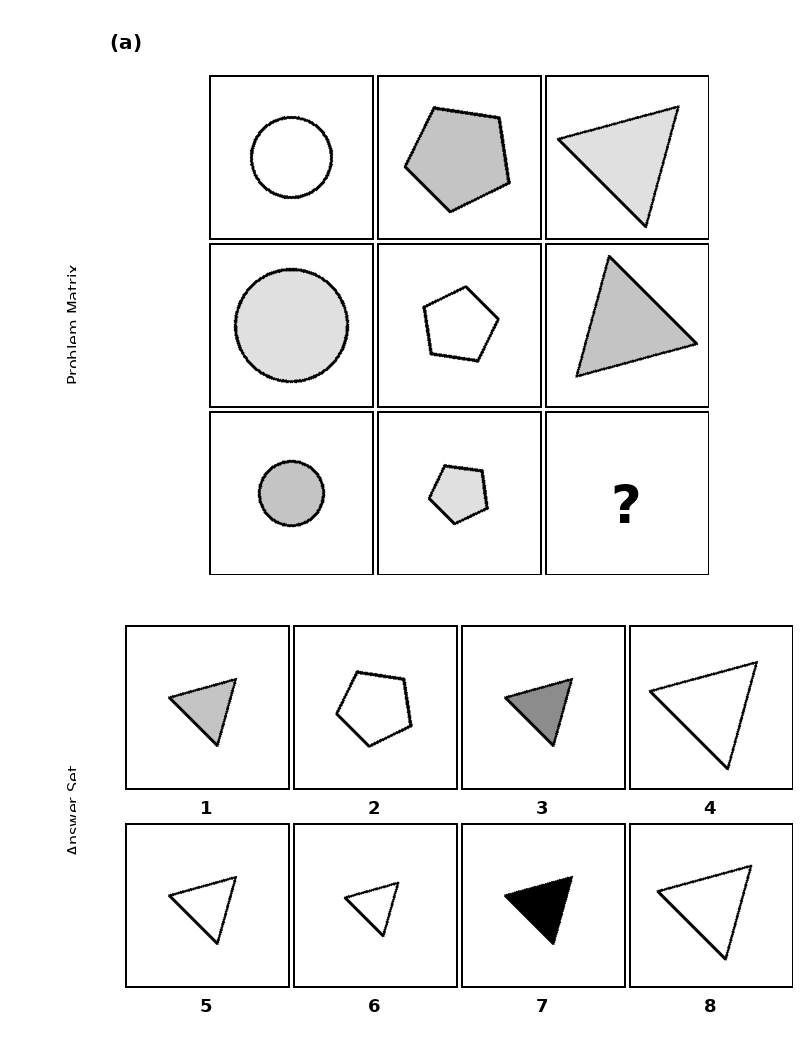
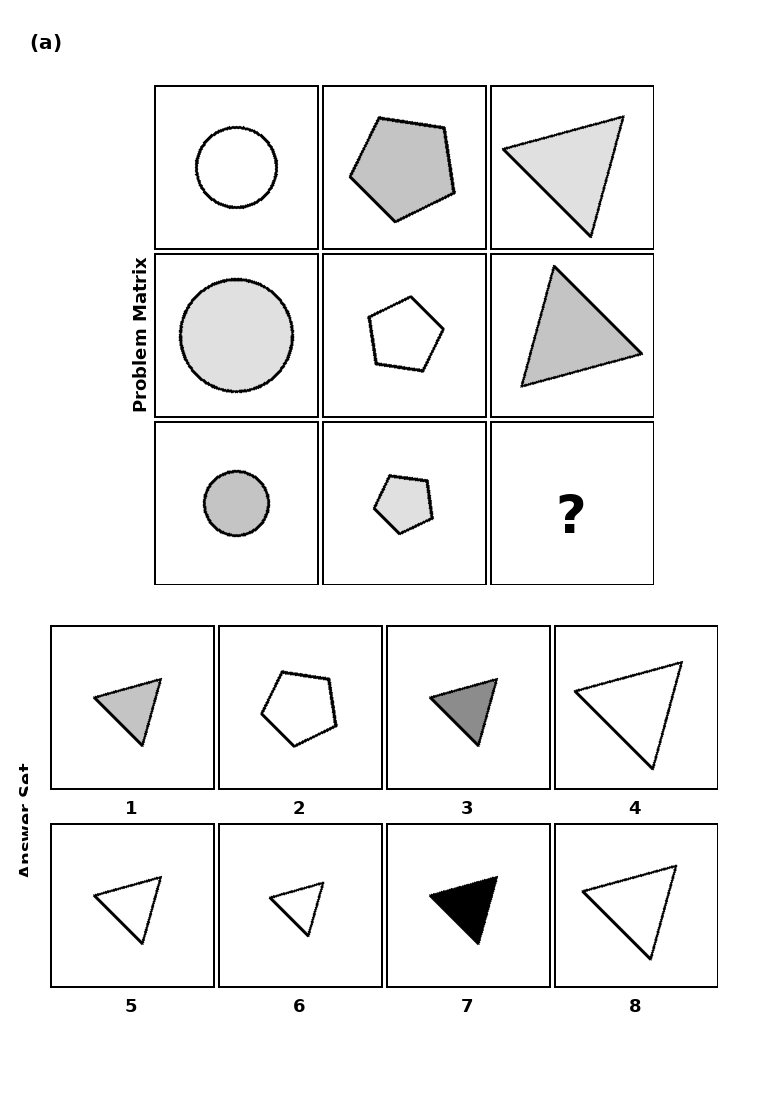
pm visible

diff --git a/preprocessing/load_raven.py b/preprocessing/load_raven.py
@@ -137,7 +137,10 @@ class RAVENRunner:
         cell_width = panel_width + 2 * border_width
         cell_height = panel_height + 2 * border_width
         
-        composite_width = cell_width * 3 + spacing * 2
+        # Add margin for the "Problem Matrix" text on the left side
+        left_margin = 40  # Margin for the vertical text
+        
+        composite_width = cell_width * 3 + spacing * 2 + left_margin
         composite_height = cell_height * 3 + spacing * 2
         
         # Create composite image with white background
@@ -160,8 +163,8 @@ class RAVENRunner:
         ]
         
         for i, (col, row) in enumerate(positions):
-            # Calculate position with spacing
-            x = col * (cell_width + spacing)
+            # Calculate position with spacing, accounting for left margin
+            x = left_margin + col * (cell_width + spacing)
             y = row * (cell_height + spacing)
             
             # Draw border rectangle
@@ -175,7 +178,7 @@ class RAVENRunner:
         
         # Add question mark for missing panel
         missing_col, missing_row = 2, 2
-        missing_x = missing_col * (cell_width + spacing)
+        missing_x = left_margin + missing_col * (cell_width + spacing)
         missing_y = missing_row * (cell_height + spacing)
         
         # Draw border for missing panel
@@ -204,6 +207,37 @@ class RAVENRunner:
         text_y = missing_y + (cell_height - text_height) // 2
         
         draw.text((text_x, text_y), question_text, fill='black', font=font)
+        
+        # Add "Problem Matrix" text on the left side
+        try:
+            label_font = ImageFont.truetype("/usr/share/fonts/truetype/dejavu/DejaVuSans-Bold.ttf", 18)
+        except:
+            try:
+                label_font = ImageFont.load_default()
+            except:
+                label_font = None
+        
+        if label_font:
+            problem_matrix_text = "Problem Matrix"
+            text_width, text_height = draw.textbbox((0, 0), problem_matrix_text, font=label_font)[2:4]
+            
+            # Calculate the position for the vertical text
+            # Center it vertically in the matrix area
+            matrix_height = 3 * cell_height + 2 * spacing
+            text_x = 15  # Fixed distance from the left edge
+            text_y = (composite_height - text_width) // 2  # Center vertically
+            
+            # Draw the rotated text
+            # We need to create a temporary image, draw text, then rotate and paste
+            text_img = Image.new('RGBA', (text_width, text_height), (255, 255, 255, 0))
+            text_draw = ImageDraw.Draw(text_img)
+            text_draw.text((0, 0), problem_matrix_text, fill='black', font=label_font)
+            
+            # Rotate the text image 90 degrees counter-clockwise
+            rotated_text = text_img.rotate(90, expand=True)
+            
+            # Paste the rotated text onto the composite image
+            composite.paste(rotated_text, (text_x, text_y), rotated_text)
         
         return composite
 
@@ -306,25 +340,27 @@ class RAVENRunner:
         
         # Layout parameters
         margin = 30  # Margin around the entire image
-        left_label_width = 80  # Extra space for vertical labels on the left
         section_spacing = 40  # Space between Problem Matrix and Answer Set
-        label_height = 35  # Height for section labels
-        label_margin = 10  # Space between label and content
+        label_height = 40  # Height for section labels (increased)
+        label_margin = 15  # Space between label and content (increased)
+        
+        # Add margin for the left side labels
+        left_margin = 40  # Margin for the vertical text
         
         # Calculate total dimensions
-        combined_width = max(matrix_width, choices_width) + 2 * margin + left_label_width
+        combined_width = max(matrix_width, choices_width) + 2 * margin + left_margin
         combined_height = (margin + label_height + label_margin + matrix_height + 
-                          section_spacing + label_margin + 
+                          section_spacing + label_height + label_margin + 
                           choices_height + margin)
         
         # Create combined image with white background
         combined = Image.new('RGB', (combined_width, combined_height), 'white')
         draw = ImageDraw.Draw(combined)
         
-        # Set up fonts
+        # Set up fonts - using bold font for both
         try:
             title_font = ImageFont.truetype("/usr/share/fonts/truetype/dejavu/DejaVuSans-Bold.ttf", 20)
-            label_font = ImageFont.truetype("/usr/share/fonts/truetype/dejavu/DejaVuSans.ttf", 16)
+            label_font = ImageFont.truetype("/usr/share/fonts/truetype/dejavu/DejaVuSans-Bold.ttf", 18)
         except:
             try:
                 title_font = ImageFont.load_default()
@@ -338,60 +374,39 @@ class RAVENRunner:
         
         # Add "(a)" label at top left
         if title_font:
-            draw.text((margin + left_label_width, current_y), "(a)", fill='black', font=title_font)
+            draw.text((margin, current_y), "(a)", fill='black', font=title_font)
         current_y += label_height + label_margin
         
-        # Add "Problem Matrix" label on the left side (rotated 90 degrees)
-        if label_font:
-            problem_label = "Problem Matrix"
-            # Create a temporary image for the rotated text
-            bbox = draw.textbbox((0, 0), problem_label, font=label_font)
-            text_width = bbox[2] - bbox[0]
-            text_height = bbox[3] - bbox[1]
-            
-            # Create temporary image for text
-            text_img = Image.new('RGB', (text_width, text_height), 'white')
-            text_draw = ImageDraw.Draw(text_img)
-            text_draw.text((0, 0), problem_label, fill='black', font=label_font)
-            
-            # Rotate the text image 90 degrees counter-clockwise
-            rotated_text = text_img.rotate(90, expand=True)
-            
-            # Position the rotated text on the left side, centered vertically with matrix
-            label_x = margin + (left_label_width - rotated_text.size[0]) // 2
-            label_y = current_y + (matrix_height - rotated_text.size[1]) // 2
-            combined.paste(rotated_text, (label_x, label_y))
+        # We don't need to add "Problem Matrix" label here since it's now part of the matrix_composite
         
-        # Center and paste the matrix (accounting for left label space)
-        matrix_x = margin + left_label_width + (combined_width - matrix_width - margin - left_label_width) // 2
+        # Center and paste the matrix
+        matrix_x = margin + (combined_width - matrix_width - 2*margin) // 2
         combined.paste(matrix_composite, (matrix_x, current_y))
         current_y += matrix_height + section_spacing
         
-        # Add "Answer Set" label on the left side (rotated 90 degrees)
+        # Add "Answer Set" label - positioned on the left side vertically
         if label_font:
-            answer_label = "Answer Set"
+            answer_set_label = "Answer Set"
             # Create a temporary image for the rotated text
-            bbox = draw.textbbox((0, 0), answer_label, font=label_font)
+            bbox = draw.textbbox((0, 0), answer_set_label, font=label_font)
             text_width = bbox[2] - bbox[0]
             text_height = bbox[3] - bbox[1]
             
-            # Create temporary image for text
-            text_img = Image.new('RGB', (text_width, text_height), 'white')
+            # Create temporary image for text with transparent background
+            text_img = Image.new('RGBA', (text_width, text_height), (255, 255, 255, 0))
             text_draw = ImageDraw.Draw(text_img)
-            text_draw.text((0, 0), answer_label, fill='black', font=label_font)
+            text_draw.text((0, 0), answer_set_label, fill='black', font=label_font)
             
             # Rotate the text image 90 degrees counter-clockwise
             rotated_text = text_img.rotate(90, expand=True)
             
-            # Position the rotated text on the left side, centered vertically with choices
-            label_x = margin + (left_label_width - rotated_text.size[0]) // 2
+            # Position the rotated text on the left side, centered vertically with choices grid
+            label_x = 15
             label_y = current_y + (choices_height - rotated_text.size[1]) // 2
-            combined.paste(rotated_text, (label_x, label_y))
+            combined.paste(rotated_text, (label_x, label_y), rotated_text)
         
-        current_y += label_margin
-        
-        # Center and paste the choices (accounting for left label space)
-        choices_x = margin + left_label_width + (combined_width - choices_width - margin - left_label_width) // 2
+        # Center and paste the choices
+        choices_x = margin + (combined_width - choices_width - 2*margin) // 2
         combined.paste(choices_composite, (choices_x, current_y))
         
         return combined
